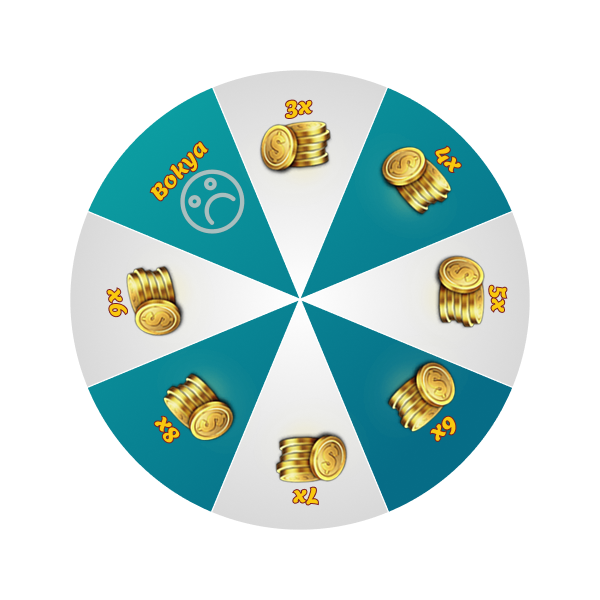
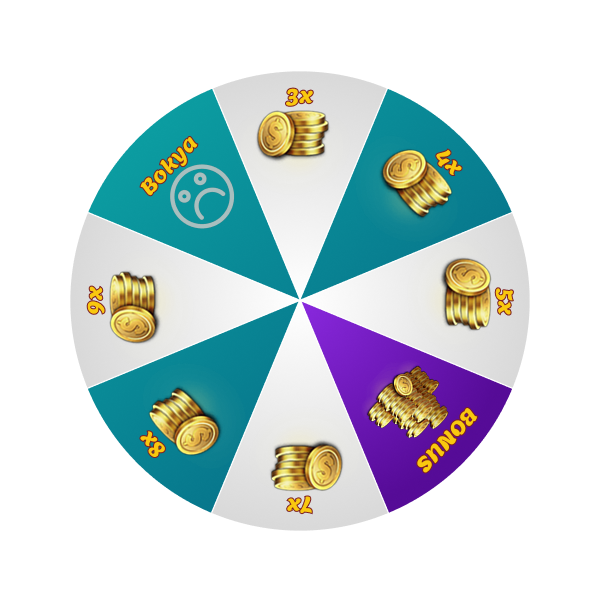
fix spin the wheel image and added jackpot wheel

diff --git a/src/components/JackpotWheel.vue b/src/components/JackpotWheel.vue
@@ -6,6 +6,7 @@
       class="wheel"
       :style="{ transform: `rotate(${rotation}deg)` }"
     />
+
     <img draggable="false" :src="WheelArrow" class="wheel-arrow" />
     <img draggable="false" src="../assets/feet_wheel.png" class="wheel-bg" />
   </div>
@@ -16,7 +17,7 @@
       <el-image fit="cover" :src="vfxLight" class="light-2" />
       <div class="text-container">
         <el-image :src="multiplierWin?.url" class="" />
-        <el-text class="text">+{{ Math.round(outputValue) }}</el-text>
+        <el-text class="text">+{{ formatCurrency(Math.round(outputValue)) }}</el-text>
       </div>
       <el-text class="close-text" @click="handleClose"> Click here to close </el-text>
     </div>
@@ -25,17 +26,16 @@
 
 <script setup lang="ts">
 import { onMounted, onUnmounted, ref } from 'vue'
-import { wheelDeg } from '@/models/constants'
+import { jackpotWheelDeg } from '@/models/constants'
 import type { TSpinWheel } from '@/models/type'
 import { useCreditStore, useGameStore } from '@/stores'
 import { useTransition } from '@vueuse/core'
 import spinSound from '@/assets/audio/sample6_wheel.mp3'
 import winSound from '@/assets/audio/sample1_spin_price.mp3'
 import { formatCurrency } from '@/utils/convertMoney'
-import gameLogic from '@/composables/useGameLogic'
 
 // images
-import Wheel from '@/assets/default_wheel.png'
+import Wheel from '@/assets/jackpot_wheel.png'
 import WheelArrow from '@/assets/wheel_arrow.png'
 import vfxLight from '@/assets/game/vfx-light.png'
 import congratulations from '@/assets/game/congratulations.png'
@@ -45,12 +45,23 @@ const isSpinning = ref(false)
 const multiplierWin = ref<TSpinWheel | null>(null)
 const showResult = ref(false)
 const autoSpinTimeout = ref<number | null>(null)
-const selectedSlice = ref<TSpinWheel | null>(null)
+const shouldJackpotAppear = ref(false)
+
 const source = ref(0)
 const outputValue = useTransition(source, { duration: 3000 })
 
 const spinAudio = new Audio(spinSound)
 const winAudio = new Audio(winSound)
+
+// watch(
+//   [
+//     () => useGameStore().getBetOnAce * (multiplierWin.value ? multiplierWin.value.multiplier : 1),
+//     () => useGameStore().getAccumulatedJackpot,
+//   ],
+//   ([newValue, newJackpotValue]) => {
+//     source.value = newValue ? newValue : newJackpotValue
+//   },
+// )
 
 // Cleanup function to prevent memory leaks
 const cleanup = () => {
@@ -70,6 +81,7 @@ const spinWheel = () => {
   // Reset in case we're respinning
   showResult.value = false
   multiplierWin.value = null
+
   isSpinning.value = true
 
   // Play the spin sound
@@ -80,58 +92,53 @@ const spinWheel = () => {
 
   const fullRotations = 360 * 10
 
-  // Randomly determine if "bokya" or "bonus" should appear
+  // 30% chance of jackpot appearing
   const randomValue = Math.random()
+  shouldJackpotAppear.value = randomValue < 1
 
-  if (randomValue < 0.3) {
-    // 30% chance of "bokya" appearing
-    selectedSlice.value = wheelDeg.find((slice) => slice.multiplier === 1) || wheelDeg[7]
-  } else if (randomValue >= 0.3 && randomValue < 2) {
-    // 30% chance of "bonus" appearing
-    selectedSlice.value = wheelDeg.find((slice) => slice.multiplier === 6) || wheelDeg[3]
+  let selectedSlice: TSpinWheel
+  console.log(shouldJackpotAppear.value)
+  if (shouldJackpotAppear.value) {
+    selectedSlice = jackpotWheelDeg.find((slice) => slice.multiplier === 1) || jackpotWheelDeg[7]
   } else {
-    // For other outcomes
-    const nonBokyaOrBonusSlices = wheelDeg.filter(
-      (slice) => slice.multiplier > 1 && slice.multiplier !== 6,
-    )
-    const randomIndex = Math.floor(Math.random() * nonBokyaOrBonusSlices.length)
-    selectedSlice.value = nonBokyaOrBonusSlices[randomIndex]
+    const nonBokyaSlices = jackpotWheelDeg.filter((slice) => slice.multiplier > 1)
+    const randomIndex = Math.floor(Math.random() * nonBokyaSlices.length)
+    selectedSlice = nonBokyaSlices[randomIndex]
   }
 
-  const stopAtDegree = fullRotations - selectedSlice.value.deg
+  const stopAtDegree = fullRotations - selectedSlice.deg
   rotation.value = stopAtDegree
 
-  const spinWheelTimeout = setTimeout(() => {
+  setTimeout(() => {
     spinAudio.pause()
     spinAudio.currentTime = 0
 
     isSpinning.value = false
-    multiplierWin.value = selectedSlice.value
+    showResult.value = true
+    multiplierWin.value = selectedSlice
 
-    if (multiplierWin.value && multiplierWin.value.multiplier === 6) {
-      // 6 is bonus wheel
-      useGameStore().setShowJackpotSpinTheWheel(true)
-      useGameStore().setShowSpinTheWheel(false)
+    if (selectedSlice.multiplier > 1) {
+      winAudio.currentTime = 0
+      winAudio.play()
+    }
+
+    if (shouldJackpotAppear.value) {
+      useCreditStore().setCurrentBalance(
+        useCreditStore().getCurrentBalance + useGameStore().getAccumulatedJackpot,
+      )
+      source.value = useGameStore().getAccumulatedJackpot
+      useGameStore().setAccumulatedJackpot(0)
     } else {
-      showResult.value = true
+      // Update user's balance
+      multiplierWin.value = selectedSlice
+      useCreditStore().setCurrentBalance(
+        useCreditStore().getCurrentBalance +
+          useGameStore().getBetOnAce * multiplierWin.value.multiplier,
+      )
 
-      if (selectedSlice.value && selectedSlice.value.multiplier > 1) {
-        winAudio.currentTime = 0
-        winAudio.play()
-
-        // Update user's balance
-        if (multiplierWin.value) {
-          useCreditStore().setCurrentBalance(
-            useCreditStore().getCurrentBalance +
-              useGameStore().getBetOnAce * multiplierWin.value.multiplier,
-          )
-          source.value = useGameStore().getBetOnAce * multiplierWin.value.multiplier
-        }
-      }
+      source.value = useGameStore().getBetOnAce * multiplierWin.value.multiplier
     }
   }, 8000)
-
-  gameLogic.addTimeout(spinWheelTimeout)
 }
 
 const handleSpin = () => {
@@ -141,25 +148,23 @@ const handleSpin = () => {
 }
 
 const handleClose = () => {
-  // Include multipliers of 6 or 1
-  if (
-    multiplierWin.value &&
-    (multiplierWin.value.multiplier === 6 || multiplierWin.value.multiplier === 1)
-  )
-    return
-
-  if (multiplierWin.value) {
+  if (shouldJackpotAppear.value) {
+    const updatedBets = [
+      ...useGameStore().getAllBets,
+      `+${formatCurrency(useGameStore().getAccumulatedJackpot)}`,
+    ]
+    useGameStore().setAllBets(updatedBets)
+  }
+  if (multiplierWin.value && !shouldJackpotAppear.value) {
     const updatedBets = [
       ...useGameStore().getAllBets,
       `+${formatCurrency(useGameStore().getBetOnAce * multiplierWin.value.multiplier)}`,
     ]
     useGameStore().setAllBets(updatedBets)
-    useGameStore().setBetOnAce(0)
   }
-
   cleanup()
-  useGameStore().setShowSpinTheWheel(false)
-  multiplierWin.value = null
+  useGameStore().setShowJackpotSpinTheWheel(false)
+  useGameStore().setBetOnAce(0)
 }
 
 onMounted(() => {

diff --git a/src/models/constants.ts b/src/models/constants.ts
@@ -106,6 +106,49 @@ export const wheelDeg: Array<TSpinWheel> = [
   },
 ]
 
+export const jackpotWheelDeg: Array<TSpinWheel> = [
+  {
+    deg: 0,
+    multiplier: 10,
+    url: new URL('@/assets/game/jackpot-spin-value/10X.png', import.meta.url).href,
+  },
+  {
+    deg: 20,
+    multiplier: 20,
+    url: new URL('@/assets/game/jackpot-spin-value/20X.png', import.meta.url).href,
+  },
+  {
+    deg: 30,
+    multiplier: 30,
+    url: new URL('@/assets/game/jackpot-spin-value/30X.png', import.meta.url).href,
+  },
+  {
+    deg: 50,
+    multiplier: 50,
+    url: new URL('@/assets/game/jackpot-spin-value/50X.png', import.meta.url).href,
+  },
+  {
+    deg: 100,
+    multiplier: 100,
+    url: new URL('@/assets/game/jackpot-spin-value/100X.png', import.meta.url).href,
+  },
+  {
+    deg: 225,
+    multiplier: 200,
+    url: new URL('@/assets/game/jackpot-spin-value/200X.png', import.meta.url).href,
+  },
+  {
+    deg: 270,
+    multiplier: 500,
+    url: new URL('@/assets/game/jackpot-spin-value/500X.png', import.meta.url).href,
+  },
+  {
+    deg: 315,
+    multiplier: 1,
+    url: new URL('@/assets/game/jackpot-spin-value/JACKPOT.png', import.meta.url).href,
+  },
+]
+
 export const botNames: Array<string> = [
   'Sophia',
   'Liam',

diff --git a/src/stores/gameStore.ts b/src/stores/gameStore.ts
@@ -25,6 +25,7 @@ type TState = {
   revealCards: boolean
   showBetDrawer: boolean
   showSpinTheWheel: boolean
+  showJackpotSpinTheWheel: boolean
   showWinBanner: boolean
 }
 
@@ -50,6 +51,7 @@ export const useGameStore = defineStore('gameStore', {
     revealCards: false,
     showBetDrawer: false,
     showSpinTheWheel: false,
+    showJackpotSpinTheWheel: false,
     showWinBanner: false,
   }),
   getters: {
@@ -69,6 +71,7 @@ export const useGameStore = defineStore('gameStore', {
     getBetOnCard: (state) => state.betOnCard,
 
     getSpinTheWheel: (state) => state.showSpinTheWheel,
+    getJackpotSpinTheWheel: (state) => state.showJackpotSpinTheWheel,
     getIsRevealCards: (state) => state.revealCards,
     getShowBetDrawer: (state) => state.showBetDrawer,
     getAccumulatedJackpot: (state) => state.accumulatedJackpot,
@@ -131,6 +134,10 @@ export const useGameStore = defineStore('gameStore', {
 
     setShowSpinTheWheel(newValue: boolean) {
       this.showSpinTheWheel = newValue
+    },
+
+    setShowJackpotSpinTheWheel(newValue: boolean) {
+      this.showJackpotSpinTheWheel = newValue
     },
 
     setDrawer(newValue: boolean) {

diff --git a/src/views/GameView.vue b/src/views/GameView.vue
@@ -10,6 +10,9 @@
     <div class="spin-overlay" v-if="useGameStore().getSpinTheWheel">
       <SpinTheWheel />
     </div>
+    <div class="spin-overlay" v-if="useGameStore().getJackpotSpinTheWheel">
+      <JackpotWheel />
+    </div>
     <!-- End of Overlays -->
 
     <el-main>
@@ -55,6 +58,7 @@ import gameLogic from '@/composables/useGameLogic'
 import SpinTheWheel from '@/components/SpinTheWheel.vue'
 import BetDrawer from '@/components/game/BetDrawer.vue'
 import WinBanner from '@/components/game/WinBanner.vue'
+import JackpotWheel from '@/components/JackpotWheel.vue'
 // import PlayerWins from '@/components/overlays/PlayerWins.vue'
 
 const gameContainerRef = ref<HTMLElement | null>(null)

diff --git a/src/utils/getRandomCards.ts b/src/utils/getRandomCards.ts
@@ -4,7 +4,7 @@ export function getRandomCards(cards: Array<TCardType>): Array<TCardType> {
   const cardsDeck: Array<TCardType> = JSON.parse(JSON.stringify(cards))
   const selectedCards: Array<TCardType> = []
 
-  const shouldIncludeAce: boolean = Math.random() < 0.1 // 10% chance of appearing
+  const shouldIncludeAce: boolean = Math.random() < 1 // 10% chance of appearing
   const aceIndex: number = cardsDeck.findIndex((card: TCardType) => card.value === 1)
 
   if (shouldIncludeAce && aceIndex !== -1) {

diff --git a/src/composables/useGameLogic.ts b/src/composables/useGameLogic.ts
@@ -193,8 +193,8 @@ export class GameLogic {
     useGameStore().setAllBots([])
     useGameStore().setTotalPlayers(0)
     useGameStore().setWinBanner(false)
-    useGameStore().setBetOnAce(0)
-    useGameStore().setBetOnCard(0)
+    // useGameStore().setBetOnAce(0)
+    // useGameStore().setBetOnCard(0)
 
     const newCards = getRandomCards(Cards)
     useGameStore().setFourCards(newCards)

diff --git a/src/components/game/HeaderView.vue b/src/components/game/HeaderView.vue
@@ -39,7 +39,7 @@ onMounted(() => {
 })
 
 watch(
-  () => useGameStore().accumulatedJackpot,
+  () => useGameStore().getAccumulatedJackpot,
   (newValue) => {
     source.value = newValue
   },
